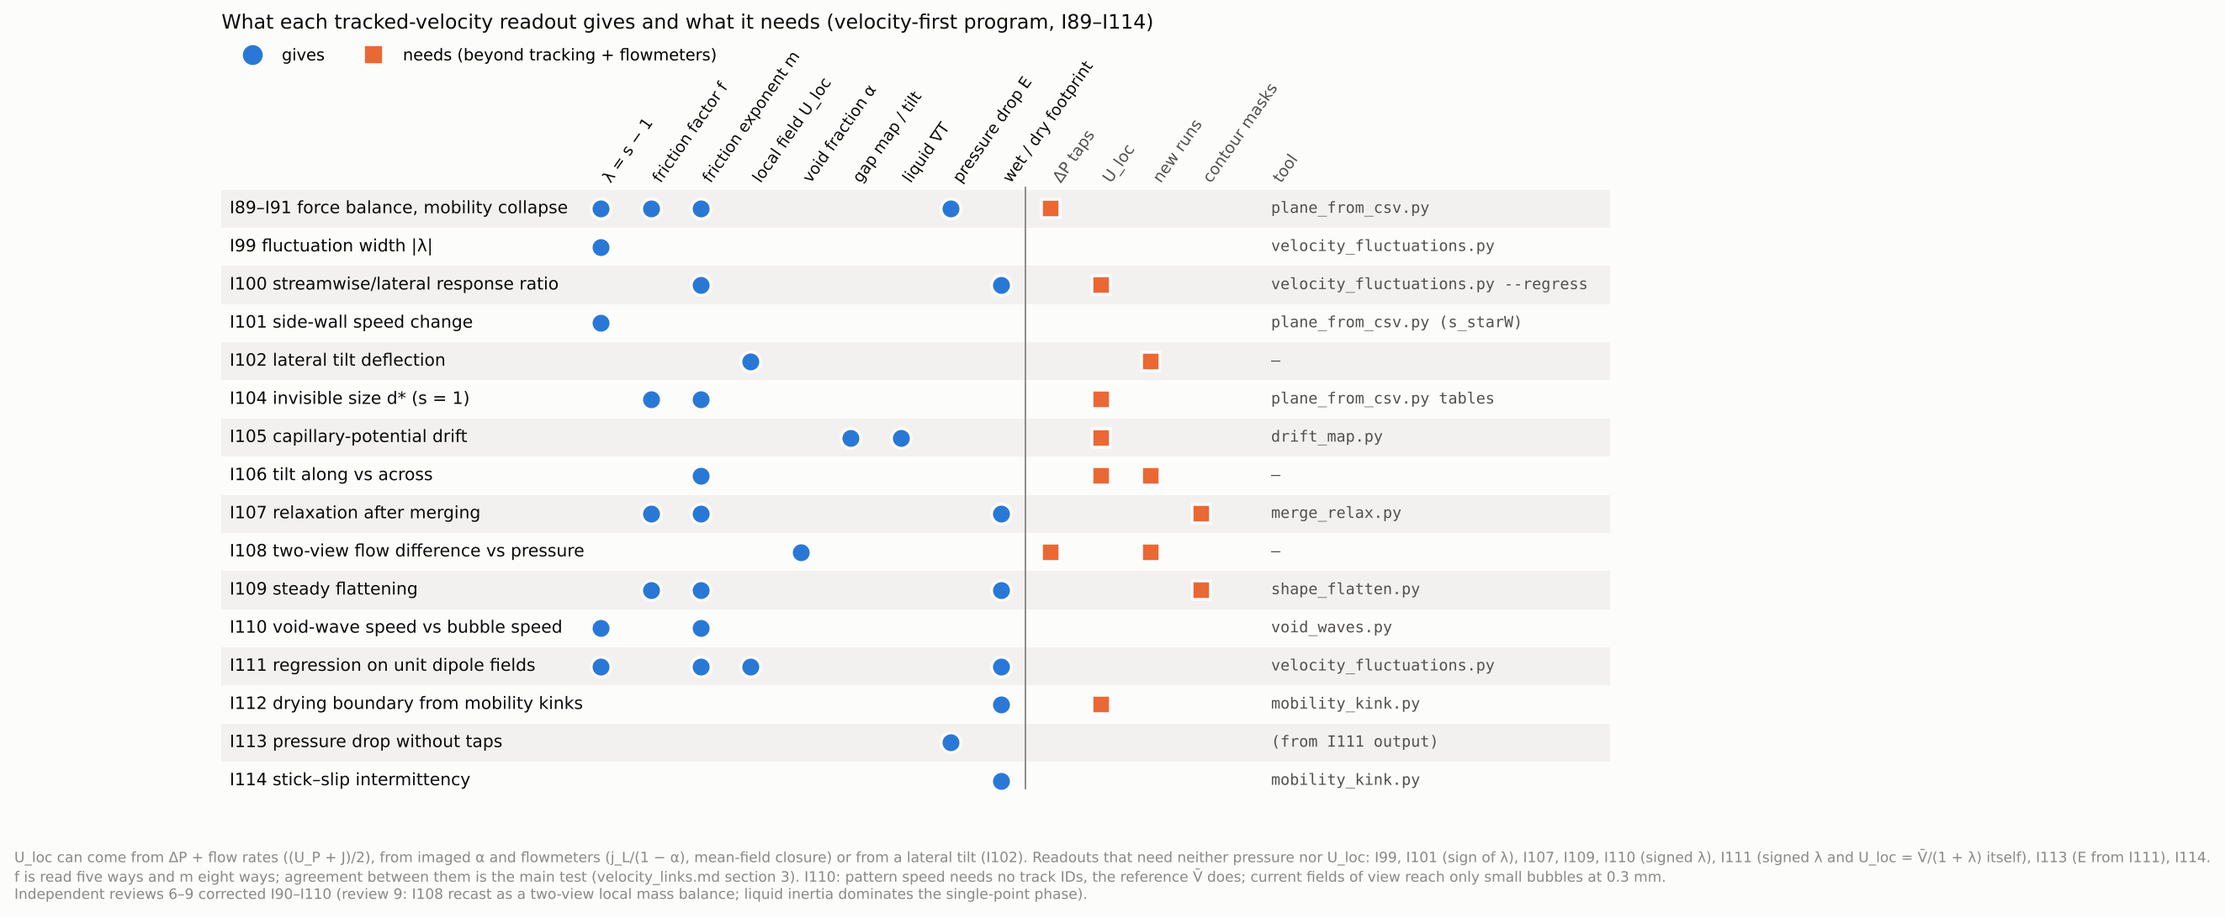
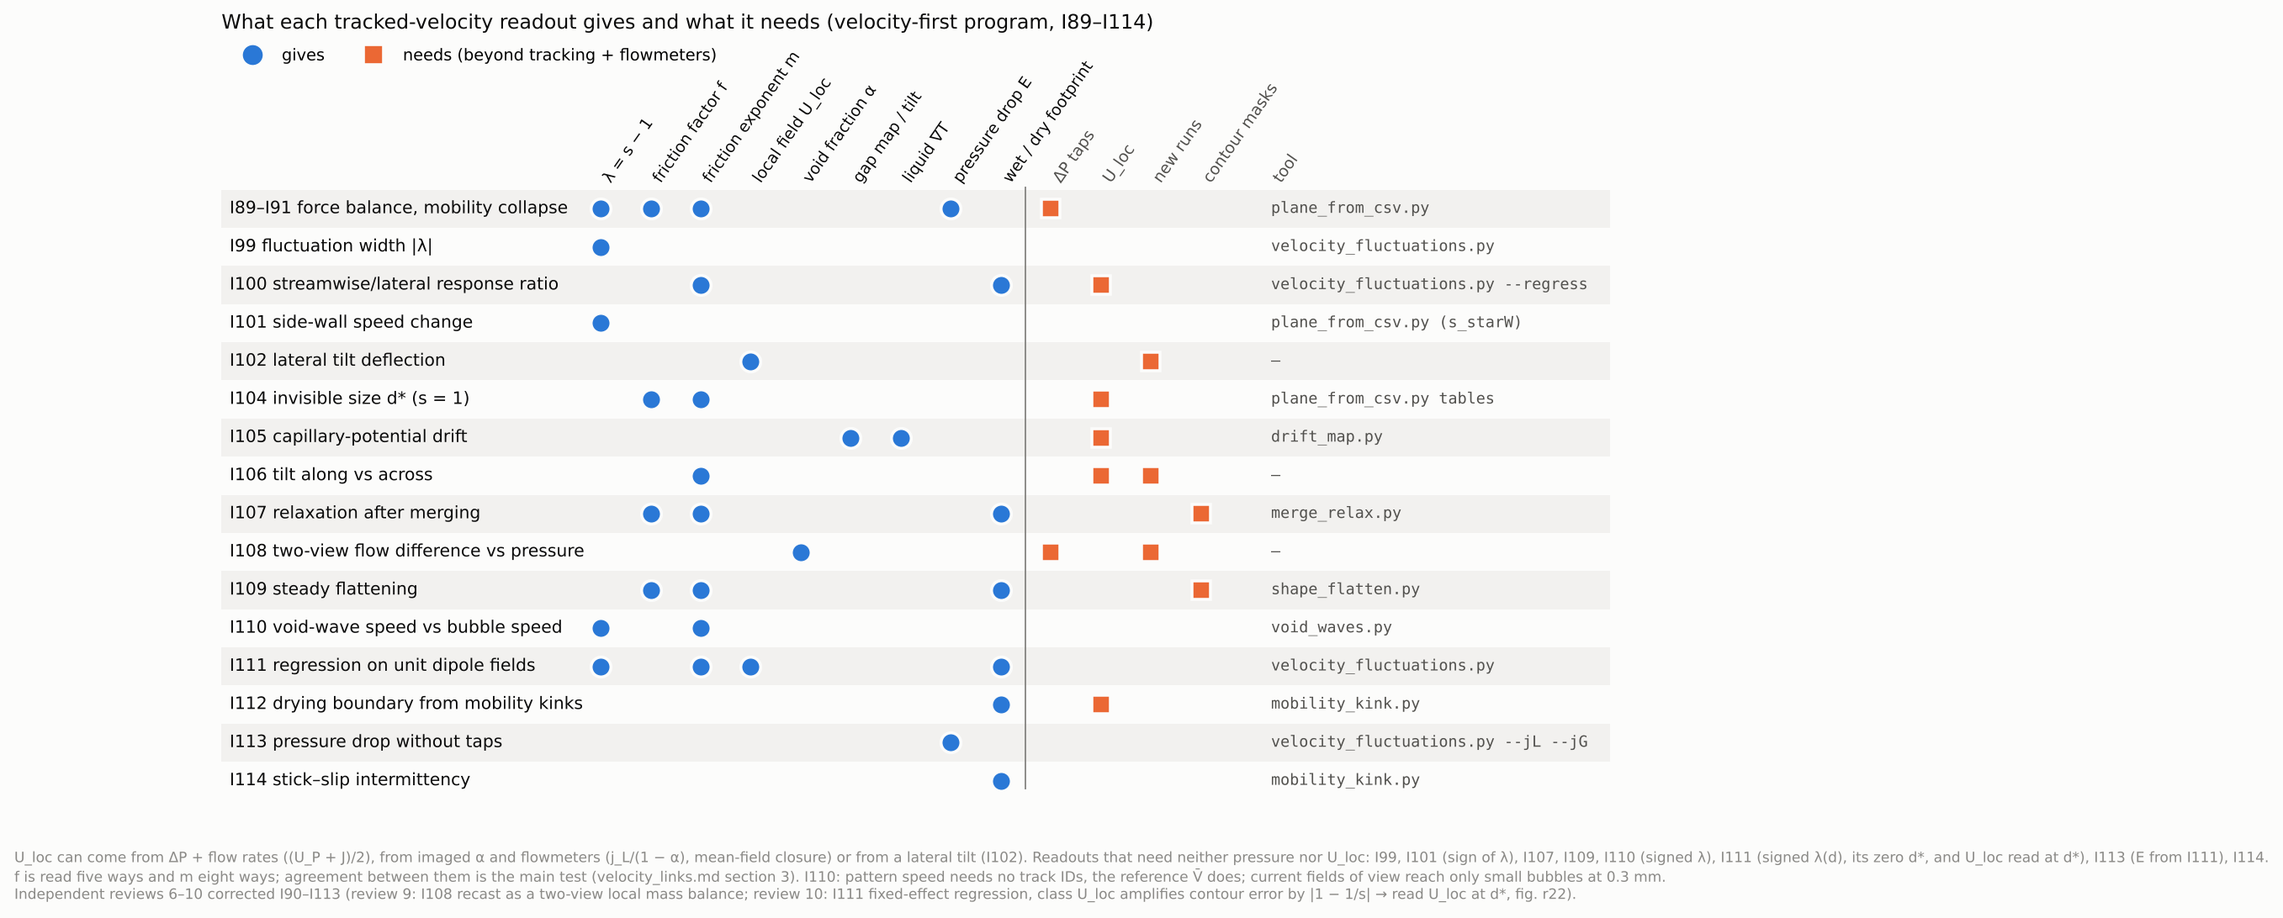
docs: 그림 r22(I111 회귀: 되찾은 λ(d)·d*, 기포별 국소장, 윤곽 감도), r19 갱신
Claude-Session: https://claude.ai/code/session_01QFVWo3BPZ98Eh7jXYmYxkN

diff --git a/docs/research/fig/src/fig_i111.py b/docs/research/fig/src/fig_i111.py
@@ -1,0 +1,112 @@
+"""단위 쌍극자 장 회귀(I111), 그림 r22. 합성 자가 시험(다분산) + 윤곽 규약 감도 예상, 실측 자료 없음.
+
+(a) `tools/velocity_fluctuations.py`의 다분산 합성(make_demo poly, 시드 1: d/H 2~5·5~14에서 d 고르게, s(d/H)는 0.3 mm·물·0.05 m/s의
+    Booth 관계 s^(2/3)/(2 − s) = 1.12(d/H)Ca_U^(1/3), 각 α 0.03, m 2/3, U 6 px/frame, 위치 잡음 0.15 px)에서 되찾은 λ(d) 마디
+    (ln d/H 삼각 기저, 95% 트랙 부트스트랩 구간)와 참 곡선. λ = 0인 크기 d*(s = 1)를 표시했다.
+(b) 같은 자료의 기포(트랙)마다 평균 속도 V̄_i(회색)와 V̄_i/(1 + λ̂(d_i))(파랑). 크기마다 3배 가까이 다른 속도가 국소장 하나로
+    모인다(U가 지워진 회귀에서 거꾸로 U를 냄). d* 근처 기포의 속도는 그대로 국소장이다(U_loc(d*)).
+(c) 예상: 검출 윤곽 반경이 0.5 px 어긋날 때 구분별 U_loc = V̄/(1 + λ̂)의 상대 오차 |1 − 1/s|·δA/A(δA/A = 2·0.5/a).
+    0.3 mm·0.02 mm/px와 1 mm·0.05 mm/px(철, 가정), U 0.05 m/s. d*에서 0이다(검토 10 #4).
+"""
+import math
+import os
+import sys
+import tempfile
+from collections import defaultdict
+
+import numpy as np
+import matplotlib
+matplotlib.use("Agg")
+import matplotlib.pyplot as plt
+from matplotlib.ticker import NullFormatter
+
+HERE = "/home/user/bubbles/docs/research/fig"
+sys.path.insert(0, os.path.join(os.path.dirname(HERE), "tools"))
+import velocity_fluctuations as VF  # noqa: E402
+
+C1, C2, C3, C4 = "#2a78d6", "#eb6834", "#1baf7a", "#eda100"
+INK, INK2, MUTED, GRID, SURF = "#0b0b0b", "#52514e", "#8a8986", "#e6e5e1", "#fcfcfb"
+plt.rcParams.update({"font.family": "DejaVu Sans", "font.size": 9.5, "axes.edgecolor": MUTED,
+                     "axes.labelcolor": INK2, "xtick.color": INK2, "ytick.color": INK2,
+                     "figure.facecolor": SURF, "axes.facecolor": SURF, "savefig.facecolor": SURF,
+                     "axes.spines.top": False, "axes.spines.right": False})
+
+# (a)(b) 합성 자료
+tmp = tempfile.mkdtemp(prefix="fig_i111_")
+path = VF.make_demo(tmp, seed=1, poly=True, name="poly.csv")[0]
+H_px, k, per, U = 16.0 / 3, 4, (2000.0, 1000.0), 6.0
+bins = ((2, 5), (5, 14))
+nodes = [2.0, 3.5, 6.0, 10.0, 14.0]
+tracks = VF.read_tracks(path, "right", 0.02, H_px * 0.02)
+obs, _ = VF.track_velocities(tracks, k, 1, H_px, VF.near_contact(tracks, 0.5, periodic=per))
+basis = VF.lam_basis_fields(tracks, bins, nodes, H_px, obs, k, 1, periodic=per, scheme="euler")
+lr, tab = VF.lamreg_fit(obs, bins, basis, nodes, periodic=per, n_boot=100)
+beta = np.array([t[1] for t in tab])
+hat = VF.hat_weights(nodes)
+vt, dt = defaultdict(list), defaultdict(list)
+for o in obs:
+    vt[o[0]].append(o[2]); dt[o[0]].append(o[4])
+d_t = np.array([np.median(dt[t]) for t in vt]); v_t = np.array([np.mean(vt[t]) for t in vt])
+lam_t = np.array([hat(d) @ np.nan_to_num(beta) for d in d_t])
+r1 = lr.get(1, {})
+
+fig, axs = plt.subplots(1, 3, figsize=(13.2, 4.2))
+ax = axs[0]
+dd = np.geomspace(2, 14, 200)
+ax.axhline(0, color=GRID, lw=1)
+ax.plot(dd, [VF._s_booth_demo(x) - 1 for x in dd], color=INK2, lw=1.6, label="truth s(d/H) − 1 (Booth, f = 1)")
+ok = np.isfinite(beta)
+ax.errorbar(np.array(nodes)[ok], beta[ok], yerr=[beta[ok] - np.array([t[2] for t in tab])[ok], np.array([t[3] for t in tab])[ok] - beta[ok]],
+            fmt="o", ms=7, color=C1, mec=SURF, mew=1.2, capsize=3, lw=1.4, label="I111 nodes (U_loc not used)", zorder=3)
+if r1.get("dstar") == r1.get("dstar"):
+    ax.axvline(r1["dstar"], color=C2, lw=1.2, ls="--")
+    ax.text(r1["dstar"] * 1.03, -0.62, f"d* = {r1['dstar']:.2f}\n(truth 10.08)", color=C2, fontsize=8.5, va="bottom")
+ax.set_xscale("log"); ax.set_xticks([2, 3, 5, 7, 10, 14]); ax.set_xticklabels(["2", "3", "5", "7", "10", "14"])
+ax.set_xlabel("d/H"); ax.set_ylabel("mobility deficit λ = s − 1")
+ax.set_title("(a) signed λ(d) from fluctuations alone", loc="left", fontsize=10, color=INK)
+ax.legend(frameon=False, fontsize=8.2, loc="upper left")
+
+ax = axs[1]
+ax.scatter(d_t, v_t, s=12, color=MUTED, alpha=0.7, lw=0, label="track mean speed V̄_i")
+ax.scatter(d_t, v_t / (1 + lam_t), s=12, color=C1, alpha=0.85, lw=0, label="V̄_i / (1 + λ̂(d_i))")
+ax.axhline(U, color=INK2, lw=1.0, ls=":", label=f"true U = {U:g} px/frame (synthetic)")
+if r1.get("U_loc_dstar") == r1.get("U_loc_dstar"):
+    ax.plot([r1["dstar"]], [r1["U_loc_dstar"]], "D", ms=8, color=C2, mec=SURF, mew=1.2, zorder=4,
+            label=f"U_loc(d*) = {r1['U_loc_dstar']:.2f} (+{r1['U_loc_dstar'] / U - 1:.1%})")
+ax.set_xscale("log"); ax.set_xticks([2, 3, 5, 7, 10, 14]); ax.set_xticklabels(["2", "3", "5", "7", "10", "14"])
+ax.set_xlabel("d/H"); ax.set_ylabel("speed (px/frame)")
+ax.set_ylim(0, 1.25 * max(v_t.max(), U))
+ax.set_title("(b) per-bubble local field: speeds collapse to U", loc="left", fontsize=10, color=INK)
+ax.legend(frameon=False, fontsize=8.2, loc="upper left")
+
+ax = axs[2]
+MU, SIG, Um = 1e-3, 0.072, 0.05
+for H_mm, px_mm, col, lab in ((0.3, 0.02, C1, "0.3 mm, 0.02 mm/px"), (1.0, 0.05, C2, "1 mm, 0.05 mm/px (steel, assumed)")):
+    xs = np.geomspace(2, 40, 300)
+    sens = []
+    for x in xs:
+        s = VF._s_booth_demo(x, U=Um, mu=MU, sig=SIG)
+        a_px = x * (H_mm / px_mm) / 2
+        sens.append(abs(1 - 1 / s) * 2 * 0.5 / a_px)
+    ax.plot(xs, 100 * np.array(sens), color=col, lw=1.8, label=lab)
+ax.axvspan(9, 11.5, color=GRID, alpha=0.6, lw=0)
+ax.text(10.1, 2.2, "d*\n(s = 1)", color=INK2, fontsize=8.2, ha="center")
+ax.set_xscale("log"); ax.set_xticks([2, 3, 5, 10, 20, 40]); ax.set_xticklabels(["2", "3", "5", "10", "20", "40"])
+ax.set_xlabel("d/H (class)"); ax.set_ylabel("|δU_loc/U_loc| for 0.5 px contour error (%)")
+ax.set_ylim(0, 24)
+ax.set_title("(c) class U_loc vs contour convention", loc="left", fontsize=10, color=INK)
+ax.legend(frameon=False, fontsize=8.2, loc="upper right")
+for ax in axs:
+    ax.xaxis.set_minor_formatter(NullFormatter())
+
+fig.text(0.01, -0.06,
+         "I111: lateral velocity divided by each bubble's own mean speed, regressed on unit dipole fields of a continuous λ(d) basis "
+         "(frame and position-cell fixed effects removed identically from velocity and fields; independent review 10). "
+         "Synthetic: λ nodes within ±0.008, class U_loc +0.6% and +1.5% (old tool −19% and −9.5%). "
+         "Regression returns λ·(a_eff/a)², so class U_loc inherits |1 − 1/s| × area error (c); "
+         "U_loc read at d* (λ = 0) does not. Prediction and synthetic test only — no measured data.",
+         fontsize=7.6, color=MUTED, wrap=True)
+fig.tight_layout()
+fig.savefig(f"{HERE}/fig_r22_i111_regression.png", dpi=170, bbox_inches="tight")
+plt.close(fig)
+print("saved", {k: round(v, 4) if isinstance(v, float) else v for k, v in r1.items() if k.startswith(("dstar", "U_loc"))})

diff --git a/docs/research/fig/src/fig_readout_map.py b/docs/research/fig/src/fig_readout_map.py
@@ -29,7 +29,7 @@ rows = [  # (label, gives set, needs set, tool)
     ("I110 void-wave speed vs bubble speed", {0, 2}, set(), "void_waves.py"),
     ("I111 regression on unit dipole fields", {0, 2, 3, 8}, set(), "velocity_fluctuations.py"),
     ("I112 drying boundary from mobility kinks", {8}, {1}, "mobility_kink.py"),
-    ("I113 pressure drop without taps", {7}, set(), "(from I111 output)"),
+    ("I113 pressure drop without taps", {7}, set(), "velocity_fluctuations.py --jL --jG"),
     ("I114 stick–slip intermittency", {8}, set(), "mobility_kink.py"),
 ]
 ncol = len(gives) + len(needs)
@@ -62,10 +62,10 @@ ax.legend(frameon=False, loc="upper left", bbox_to_anchor=(0.0, 1.0), fontsize=8
 ax.set_title("What each tracked-velocity readout gives and what it needs (velocity-first program, I89–I114)",
              fontsize=10, color=INK, loc="left", pad=2)
 fig.text(0.01, 0.01, "U_loc can come from ΔP + flow rates ((U_P + J)/2), from imaged α and flowmeters (j_L/(1 − α), mean-field closure) or from a lateral tilt (I102). "
-         "Readouts that need neither pressure nor U_loc: I99, I101 (sign of λ), I107, I109, I110 (signed λ), I111 (signed λ and U_loc = V̄/(1 + λ) itself), I113 (E from I111), I114.\n"
+         "Readouts that need neither pressure nor U_loc: I99, I101 (sign of λ), I107, I109, I110 (signed λ), I111 (signed λ(d), its zero d*, and U_loc read at d*), I113 (E from I111), I114.\n"
          "f is read five ways and m eight ways; agreement between them is the main test (velocity_links.md section 3). I110: pattern speed needs no track IDs, "
          "the reference V̄ does; current fields of view reach only small bubbles at 0.3 mm.\n"
-         "Independent reviews 6–9 corrected I90–I110 (review 9: I108 recast as a two-view local mass balance; liquid inertia dominates the single-point phase).",
+         "Independent reviews 6–10 corrected I90–I113 (review 9: I108 recast as a two-view local mass balance; review 10: I111 fixed-effect regression, class U_loc amplifies contour error by |1 − 1/s| → read U_loc at d*, fig. r22).",
          fontsize=7.2, color=MUTED, va="bottom")
 fig.savefig(f"{HERE}/fig_r19_readout_map.png", dpi=170, bbox_inches="tight")
 plt.close(fig)

diff --git a/docs/research/README.md b/docs/research/README.md
@@ -6,7 +6,7 @@
 1. 보고서 ① 결론 요약(`../research_microgap_paper.md`).
 2. 아래 "핵심 결과".
    - 속도 중심(사용자 방향 10-24)은 `velocity_links.md` 한 장에 모았다: 속도를 무엇과 잇나, 같은 양을 독립인 방법으로 재는 교차 확인, 기존 자료로 지금 할 순서.
-3. 그림: `fig/fig_r4_gap_range_positioning.png`(선행 대비 위치), `fig/fig_r5_mg_closure.png`(폐합 판별력), `fig/fig_r6_step_response.png`(계단 응답의 예상 모양), `fig/fig_r7_chisholm_c_mobility.png`(Chisholm C 예상), `fig/fig_r8_thermal_em.png`(공기 주입 열전달 예상), `fig/fig_r9_discrimination_plane.png`(판별 평면: 구조 모델은 (0, 1)을 지나는 직선, 배치가 기울기를 돌림), `fig/fig_r10_plane_literature.png`(문헌 자료를 판별 평면에: Moriyama 점별 판독, Fourar 판정 불가), `fig/fig_r11_lambda_map.png`(갭·유속별 관성 비 Λ: 깨끗한 시험 범위), `fig/fig_r12_layout_crossover.png`(배치 효과의 부호 교차 예상, I83), `fig/fig_r13_closure_alpha_limit.png`(무작위 원판 수치 실험: 폐합은 α 0.2까지 ±0.02, 그 위의 흩어짐은 배치 Q로 설명, I82), `fig/fig_r14_velocity_closure.png`(예상: 계면 상태 셋(깨끗·녹는 계면활성제·굳은 막 미끄럼)의 두 판독. (a) 압력: 단분산 E/B = Δ(d/H), (b) 추적만: 이동도 s(d/H). 굳은 막 미끄럼은 우리 유속에서 s 약 6×10⁻⁴로 사실상 멈춤. 검토 6으로 앞 판의 "정확 대 근사" 패널을 지움, I89~I91), `fig/fig_r15_mobility_collapse.png`(r13과 같은 계산을 속도로 본 것: V/J는 α에 따라 퍼지고 국소장 정규화는 거의 일정. 독립 확인이 아니라 정규화 선택의 실용적 경고, I91), `fig/fig_r16_velocity_fluctuations.png`(예상: 추적 속도 요동의 폭 = Σα|λ|(2차원 쌍극자 합 = 코시), 흐름 방향/가로 폭 비 = 마찰 지수 m. 실제로는 배치 비등방 때문에 회귀형으로 읽음, I99·I100), `fig/fig_r17_invisible_size.png`(예상: 이동도 1인 크기 d*/H 대 Ca_loc. 크기가 오염 배율 f를, Ca에 대한 기울기가 m − 1을 준다. 갭과 무관, I104), `fig/fig_r18_capillary_drift.png`(예상: (a) 갭 기울기·덮개 처짐·액체 온도 기울기·기울임이 만드는 가로 표류각 대 U_loc과 잡음 바닥, (b) 흐름 방향/가로 기울임 응답 비 R 대 d/H를 마찰 지수 m별로, I105·I106), `fig/fig_r19_readout_map.png`(속도 판독 지도: I89~I111의 판독마다 주는 양과 필요한 것, 도구), `fig/fig_r20_void_waves.png`(예상: 밀도 무늬 속도와 기포 속도의 차 1 − c/V̄ 대 d/H(띠·45°·한 줄 열), 지금 시야로 잴 수 있는 범위, 방향 의존 1 + (R − 1)cos 2θ, 합성 자가 시험 점, I110), `fig/fig_r21_dry_boundary.png`(예상: 철 바닥 발자국의 건조 경계를 (크기, 속도) 평면에: 거칠기·강제 풀림은 세로선, 늦은 터짐은 V^(1.7~2) 곡선, 가열 증발은 1/q로 움직임, I112).
+3. 그림: `fig/fig_r4_gap_range_positioning.png`(선행 대비 위치), `fig/fig_r5_mg_closure.png`(폐합 판별력), `fig/fig_r6_step_response.png`(계단 응답의 예상 모양), `fig/fig_r7_chisholm_c_mobility.png`(Chisholm C 예상), `fig/fig_r8_thermal_em.png`(공기 주입 열전달 예상), `fig/fig_r9_discrimination_plane.png`(판별 평면: 구조 모델은 (0, 1)을 지나는 직선, 배치가 기울기를 돌림), `fig/fig_r10_plane_literature.png`(문헌 자료를 판별 평면에: Moriyama 점별 판독, Fourar 판정 불가), `fig/fig_r11_lambda_map.png`(갭·유속별 관성 비 Λ: 깨끗한 시험 범위), `fig/fig_r12_layout_crossover.png`(배치 효과의 부호 교차 예상, I83), `fig/fig_r13_closure_alpha_limit.png`(무작위 원판 수치 실험: 폐합은 α 0.2까지 ±0.02, 그 위의 흩어짐은 배치 Q로 설명, I82), `fig/fig_r14_velocity_closure.png`(예상: 계면 상태 셋(깨끗·녹는 계면활성제·굳은 막 미끄럼)의 두 판독. (a) 압력: 단분산 E/B = Δ(d/H), (b) 추적만: 이동도 s(d/H). 굳은 막 미끄럼은 우리 유속에서 s 약 6×10⁻⁴로 사실상 멈춤. 검토 6으로 앞 판의 "정확 대 근사" 패널을 지움, I89~I91), `fig/fig_r15_mobility_collapse.png`(r13과 같은 계산을 속도로 본 것: V/J는 α에 따라 퍼지고 국소장 정규화는 거의 일정. 독립 확인이 아니라 정규화 선택의 실용적 경고, I91), `fig/fig_r16_velocity_fluctuations.png`(예상: 추적 속도 요동의 폭 = Σα|λ|(2차원 쌍극자 합 = 코시), 흐름 방향/가로 폭 비 = 마찰 지수 m. 실제로는 배치 비등방 때문에 회귀형으로 읽음, I99·I100), `fig/fig_r17_invisible_size.png`(예상: 이동도 1인 크기 d*/H 대 Ca_loc. 크기가 오염 배율 f를, Ca에 대한 기울기가 m − 1을 준다. 갭과 무관, I104), `fig/fig_r18_capillary_drift.png`(예상: (a) 갭 기울기·덮개 처짐·액체 온도 기울기·기울임이 만드는 가로 표류각 대 U_loc과 잡음 바닥, (b) 흐름 방향/가로 기울임 응답 비 R 대 d/H를 마찰 지수 m별로, I105·I106), `fig/fig_r19_readout_map.png`(속도 판독 지도: I89~I111의 판독마다 주는 양과 필요한 것, 도구), `fig/fig_r20_void_waves.png`(예상: 밀도 무늬 속도와 기포 속도의 차 1 − c/V̄ 대 d/H(띠·45°·한 줄 열), 지금 시야로 잴 수 있는 범위, 방향 의존 1 + (R − 1)cos 2θ, 합성 자가 시험 점, I110), `fig/fig_r21_dry_boundary.png`(예상: 철 바닥 발자국의 건조 경계를 (크기, 속도) 평면에: 거칠기·강제 풀림은 세로선, 늦은 터짐은 V^(1.7~2) 곡선, 가열 증발은 1/q로 움직임, I112), `fig/fig_r22_i111_regression.png`(합성 자가 시험 + 예상: I111이 압력·국소장 없이 되찾은 λ(d)와 d*, 기포마다 V̄_i/(1 + λ̂)가 국소장 하나로 모임, 구분별 U_loc의 윤곽 감도 |1 − 1/s|·δA/A는 d*에서 0, 검토 10).
 
 ## 핵심 결과
 1. **어디가 비어 있나**

diff --git a/docs/research_microgap_paper.md b/docs/research_microgap_paper.md
@@ -63,7 +63,7 @@
   - 그래서 s = 1 + λ, Δ, m과 국소장(기포별 V̄_i/(1 + λ(d_i))의 중앙값)이 기포 요동만으로 나온다. **가장 튼튼한 국소장은 λ = 0인 크기 d*의 기포 속도**다: s = 1이라 윤곽 규약과 막 기억처럼 λ에 곱해지는 오차가 들어가지 않는다. 이것이 유량계의 j_L/(1 − α)와 맞아야 한다(압력 없는 폐합 시험).
   - 합성(쌍극자 상호작용 모의, 검토 10 고친 판): λ −0.658·+0.549(참 −0.655·+0.550), m 0.674(참 0.667), 구분별 U_loc +1.0%·+1.2%, 다분산 구분 +0.6%·+1.5%, d* 9.96(참 10.08)과 U_loc(d*) +1.0%. 상호작용 없는 실제 추적기 CSV에서 자기·교차 항 모두 |λ| ≤ 0.001이었다(같은 자료에서 폭 방식 I99는 화소 오차로 0.05·0.19). 앞 판의 치우침(U_loc −3%·+5%)과 철 거짓 교차 항(−0.07)은 도구 결함(중앙값 칸 빼기, 중심 없는 공통 요동 회귀)이었다.
   - 위험(검토 10): 회귀 λ는 λ·(a_eff/a)²라 구분별 U_loc은 면적 오차를 |1 − 1/s|배로 키운다(0.3 mm·d/H 3에서 윤곽 0.5 px면 +9.5%). 막 기억(λ −20%)이면 s 0.345에서 −28%다. 그래서 구분별 U_loc은 반경 보정 뒤에만 정량으로 쓰고, 부호·d*·R·m을 주 결과로 한다. 같은 영상 안 다시 뽑기 구간은 1.5~2배 좁다. 철 채널은 홈 이방성과 관성 길이 때문에 장의 꼴을 I88로 먼저 확인한다.
-  - 선례: 궤적 속도를 물리 기저에 투영해 상호작용을 추론하는 일반 방법(SFI, Frishman & Ronceray 2020), 갇힌 콜로이드의 상관된 운동으로 1/r² 결합을 잰 연구(Cui 외 2004), 액적 무리의 속도 상관(Shani 외 2014), 근접 쌍극자 중첩 오차(Sarig 2016, Green 2018), 크기가 다른 기포 짝 모형(Booth 외 2025)이 있다. 계산한 다체 장에 회귀해 크기별 부호 있는 세기와 국소장을 내는 쓰임은 못 찾음 → 새로움 중. 도구 `research/tools/velocity_fluctuations.py`(기본).
+  - 선례: 궤적 속도를 물리 기저에 투영해 상호작용을 추론하는 일반 방법(SFI, Frishman & Ronceray 2020), 갇힌 콜로이드의 상관된 운동으로 1/r² 결합을 잰 연구(Cui 외 2004), 액적 무리의 속도 상관(Shani 외 2014), 근접 쌍극자 중첩 오차(Sarig 2016, Green 2018), 크기가 다른 기포 짝 모형(Booth 외 2025)이 있다. 계산한 다체 장에 회귀해 크기별 부호 있는 세기와 국소장을 내는 쓰임은 못 찾음 → 새로움 중. 도구 `research/tools/velocity_fluctuations.py`(기본), 그림 `research/fig/fig_r22_i111_regression.png`.
 - **속도가 공극률보다 나은 점과 아닌 점**
   - 나은 점: 윤곽 규약 오차 δr에 공극률은 2δr/R로 흔들리지만 중심 속도는 위치의 차라 상쇄되고, 마찰 법칙의 크기 의존은 a의 1제곱(δr/a)이다.
   - 아닌 점: 멈춘 기포, 화면 끝에서 잘린 기포(도구 보정 전 +9~24%), 갭보다 작은 기포는 속도 경로에서 따로 다뤄야 한다.

diff --git a/docs/research/idea_log.md b/docs/research/idea_log.md
@@ -1705,7 +1705,7 @@
   - 작은 보정: 막이 남으면 경계 조건이 u_n = V_n(1 − 2h/H)라 U_loc이 +0.5%(Ca_V 2.4×10⁻⁴)~+2%(3×10⁻³), 마른 발자국이면 0. 원형이 아니면 원천 세기 a²(1 + C_A)/2(b/a 1.03이면 −1.6%).
 - **연결**: I99(폭, 부호 없음)·I100(R_reg, U_loc 필요)을 대신하는 주 판독이다. I110(무늬 속도)과 같은 λ를 다른 통계에서 낸다. I91(s)·I102(기울임 U_loc)·I104(d*)·I84(s ≈ 1 기포)와 같은 운전에서 맞춰 본다. I105(표류 지도)는 칸 고정효과와 같은 자료다. **I111의 U_loc으로 닫은 I91·I100은 독립 확인이 아니다**(I91은 s = V̄/U_loc = 1 + λ̂로 정의상 같고, I100 `--regress`에 넣으면 R_λ와 같은 계산; 검토 10 #5).
 - **선례**: 궤적 속도를 물리 기저 함수에 선형 투영해 상호작용을 추론하는 일반 방법은 확률적 힘 추론(SFI, Frishman & Ronceray 2020 PRX 10:021009)이다. 갇힌(준2차원) 콜로이드의 상관된 브라운 운동으로 1/r² 쌍극자 결합을 잰 연구(Cui, Diamant, Lin & Rice 2004 PRL 92:258301), 2차원 미세유로 액적 무리의 속도 상관 1/r²·네 겹 무늬(Shani 외 2014 Nat Phys 10:140)는 짝 상관이다. 근접 쌍극자 중첩 오차(Sarig 2016, Green 2018)와 크기가 다른 기포 짝 모형(Booth 외 2025 JFM 1010:A19)도 있다. 계산한 다체 쌍극자 장(크기별)에 추적 속도를 회귀해 **부호 있는** λ(d)와 국소장을 내는 쓰임은 못 찾음(WebSearch 7회, standard; 검토 10 재확인).
-- **새로움**: 중(통계 방법은 SFI의 한 형태, 쓰임과 "U가 지워진다"는 관찰이 새것). 새것으로 내세우는 구분별 U_loc 출력은 윤곽 규약·막 기억에 약하므로 U_loc(d*)와 함께 낸다. **비용**: 없음(기존 영상).
+- **새로움**: 중(통계 방법은 SFI의 한 형태, 쓰임과 "U가 지워진다"는 관찰이 새것). 새것으로 내세우는 구분별 U_loc 출력은 윤곽 규약·막 기억에 약하므로 U_loc(d*)와 함께 낸다. **비용**: 없음(기존 영상). 그림 r22(되찾은 λ(d)와 d*, 기포별 국소장, 윤곽 감도).
 
 ## 묶음 20 (2026-10-24 10:47 UTC, 철 채널 집중: 발자국이 마르는 경계를 속도로 그리기)
 
